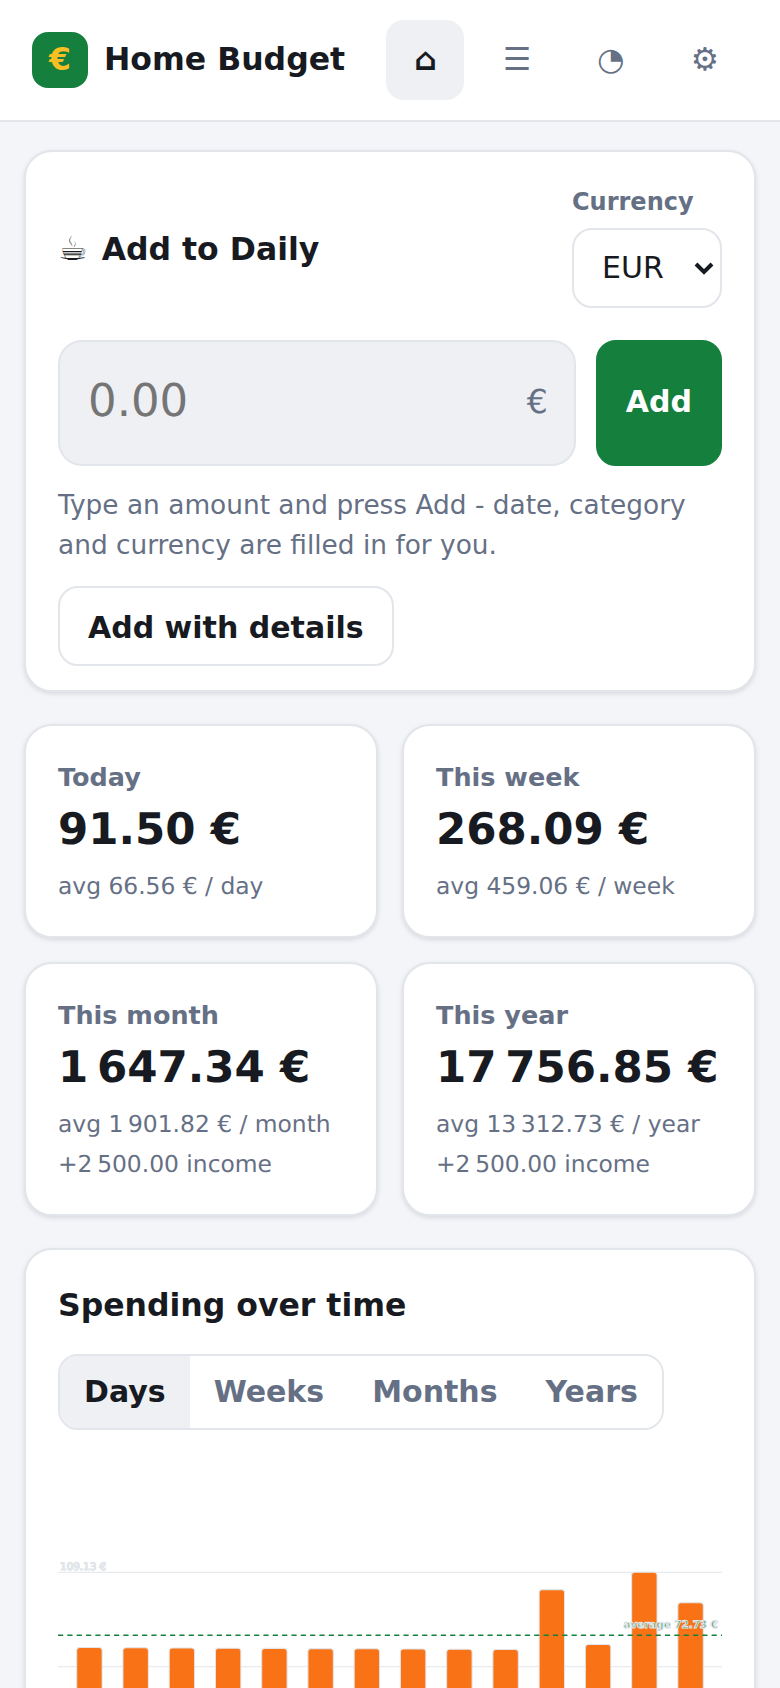
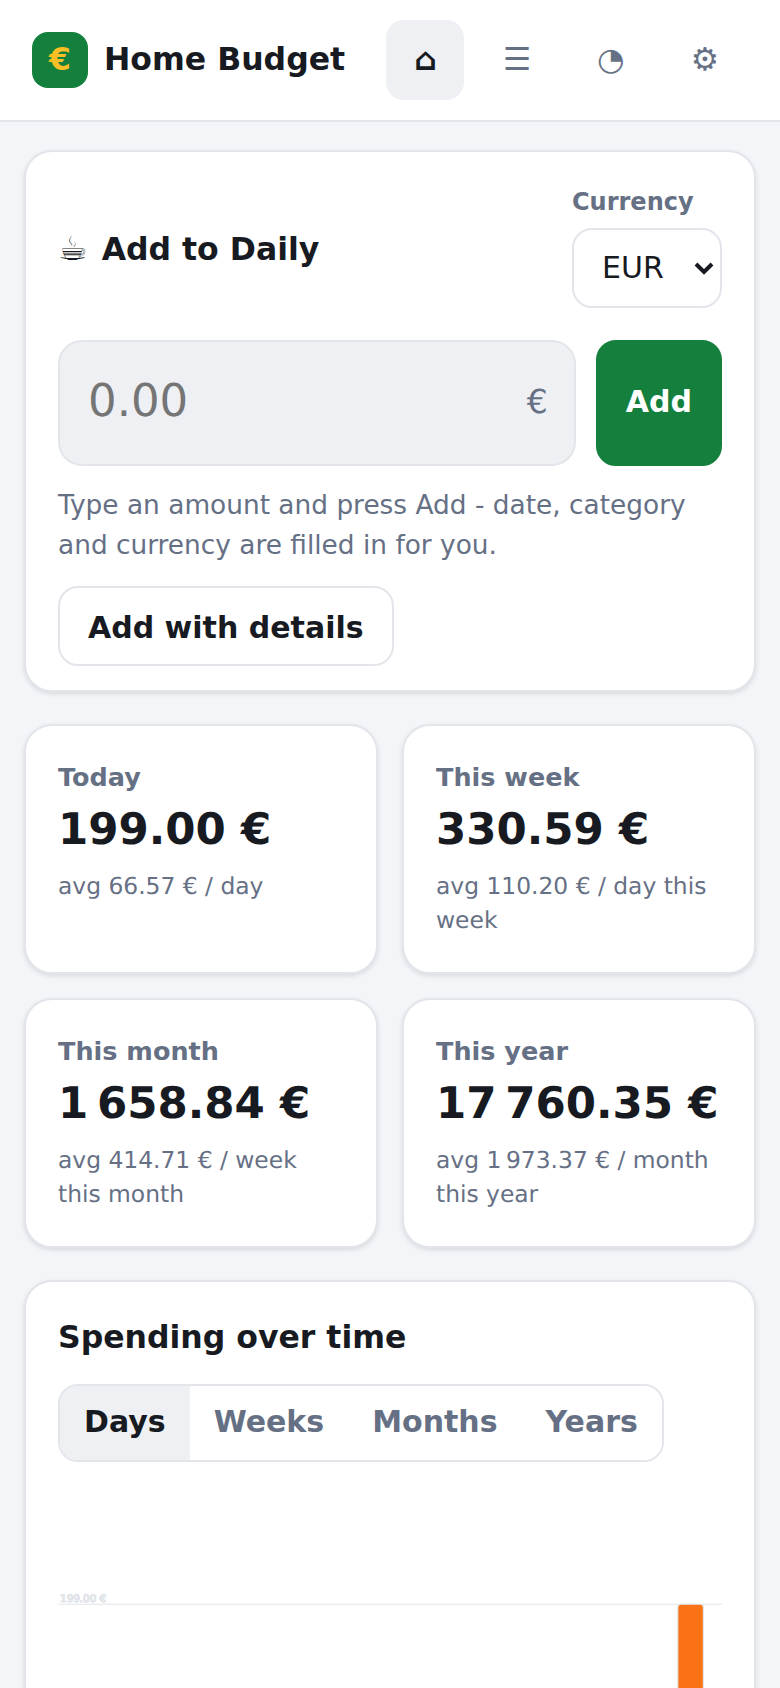
version 3.10.0

diff --git a/src/core/i18n.js b/src/core/i18n.js
@@ -88,11 +88,11 @@ export const EN = {
   'period.thisMonth': 'This month',
   'period.thisYear': 'This year',
   'period.perDay': '/ day',
-  'period.perWeek': '/ week',
-  'period.perMonth': '/ month',
-  'period.perYear': '/ year',
 
   'home.average': 'avg {amount} {per}',
+  'home.rateDay': 'avg {amount} / day this week',
+  'home.rateWeek': 'avg {amount} / week this month',
+  'home.rateMonth': 'avg {amount} / month this year',
   'home.income': '+{amount} income',
   'home.spendingOverTime': 'Spending over time',
   'home.byCategory': 'By category',
@@ -133,7 +133,7 @@ export const EN = {
   'stats.averageColumn': 'Average',
   'stats.total': 'Total',
   'stats.periods': 'Periods',
-  'stats.averagesHint': 'Averages count only the periods that have entries.',
+  'stats.averagesHint': 'This average is per whole period, over the periods that have entries - what a typical week or month of yours costs. The cards on the home screen show something else: the pace inside the period now running.',
   'stats.history': 'History',
   'stats.categories': 'Categories',
   'stats.highlights': 'Highlights',
@@ -325,11 +325,11 @@ export const RU = {
   'period.thisMonth': 'В этом месяце',
   'period.thisYear': 'В этом году',
   'period.perDay': '/ день',
-  'period.perWeek': '/ неделю',
-  'period.perMonth': '/ месяц',
-  'period.perYear': '/ год',
 
   'home.average': 'в среднем {amount} {per}',
+  'home.rateDay': 'в среднем {amount} в день за эту неделю',
+  'home.rateWeek': 'в среднем {amount} в неделю за этот месяц',
+  'home.rateMonth': 'в среднем {amount} в месяц за этот год',
   'home.income': '+{amount} доход',
   'home.spendingOverTime': 'Расходы по времени',
   'home.byCategory': 'По категориям',
@@ -370,7 +370,7 @@ export const RU = {
   'stats.averageColumn': 'Среднее',
   'stats.total': 'Всего',
   'stats.periods': 'Периодов',
-  'stats.averagesHint': 'Среднее считается только по периодам с записями.',
+  'stats.averagesHint': 'Здесь среднее — за целый период, по периодам с записями: во сколько обходится обычная неделя или месяц. На главной карточки показывают другое — темп внутри текущего периода.',
   'stats.history': 'История',
   'stats.categories': 'Категории',
   'stats.highlights': 'Главное',
@@ -562,11 +562,11 @@ export const DE = {
   'period.thisMonth': 'Dieser Monat',
   'period.thisYear': 'Dieses Jahr',
   'period.perDay': '/ Tag',
-  'period.perWeek': '/ Woche',
-  'period.perMonth': '/ Monat',
-  'period.perYear': '/ Jahr',
 
   'home.average': 'Ø {amount} {per}',
+  'home.rateDay': 'Ø {amount} / Tag in dieser Woche',
+  'home.rateWeek': 'Ø {amount} / Woche in diesem Monat',
+  'home.rateMonth': 'Ø {amount} / Monat in diesem Jahr',
   'home.income': '+{amount} Einnahmen',
   'home.spendingOverTime': 'Ausgaben im Zeitverlauf',
   'home.byCategory': 'Nach Kategorie',
@@ -607,7 +607,7 @@ export const DE = {
   'stats.averageColumn': 'Durchschnitt',
   'stats.total': 'Gesamt',
   'stats.periods': 'Perioden',
-  'stats.averagesHint': 'Der Durchschnitt zählt nur Perioden mit Einträgen.',
+  'stats.averagesHint': 'Dieser Durchschnitt gilt für ganze Perioden mit Einträgen - was eine übliche Woche oder ein üblicher Monat kostet. Die Karten auf der Startseite zeigen etwas anderes: das Tempo innerhalb der laufenden Periode.',
   'stats.history': 'Verlauf',
   'stats.categories': 'Kategorien',
   'stats.highlights': 'Auf einen Blick',

diff --git a/test/stats.test.js b/test/stats.test.js
@@ -1,7 +1,8 @@
 import test from 'node:test';
 import assert from 'node:assert/strict';
 import {
-  byCategory, groupByPeriod, highlights, ofCurrency, overview, periodStarts, periodSummary, series, totals,
+  byCategory, elapsedSubPeriods, groupByPeriod, highlights, ofCurrency, overview, periodStarts,
+  periodSummary, series, totals,
 } from '../src/core/stats.js';
 
 const categories = [
@@ -28,6 +29,55 @@ test('entries are grouped by period', () => {
   assert.deepEqual([...groupByPeriod(entries, 'month').keys()], ['2026-09', '2026-08']);
   assert.equal(groupByPeriod(entries, 'day').get('2026-09-22').length, 3);
   assert.deepEqual([...groupByPeriod(entries, 'year').keys()], ['2026']);
+});
+
+test('a period counts the sub-periods that have already passed in it', () => {
+  // 22.09.2026 is a Tuesday: two days into its week, and its month has reached
+  // its fourth calendar week (the one that starts on 31.08 counts, because the
+  // first two days of September fall in it).
+  assert.equal(elapsedSubPeriods('week', '2026-09-22'), 2);
+  assert.equal(elapsedSubPeriods('month', '2026-09-22'), 4);
+  assert.equal(elapsedSubPeriods('year', '2026-09-22'), 9);
+  // A day has nothing finer under it here, so it has no rate of its own.
+  assert.equal(elapsedSubPeriods('day', '2026-09-22'), 0);
+  // The first day of a period is one sub-period in, never zero.
+  assert.equal(elapsedSubPeriods('week', '2026-09-21'), 1);
+  assert.equal(elapsedSubPeriods('month', '2026-09-01'), 1);
+  assert.equal(elapsedSubPeriods('year', '2026-01-01'), 1);
+  assert.equal(elapsedSubPeriods('year', '2026-12-31'), 12);
+});
+
+test('the pace inside a period divides by the sub-periods that passed, not the ones with entries', () => {
+  const week = periodSummary(entries, categories, 'week', '2026-09-22');
+  // Everything in this week was spent on one of its two elapsed days. Counting
+  // only the days that have entries would say 2200 a day; two days passed, so
+  // the honest pace is half of that.
+  assert.equal(week.current.expense, 2200);
+  assert.equal(week.subPeriod, 'day');
+  assert.equal(week.subPeriods, 2);
+  assert.equal(week.rateExpense, 1100);
+
+  const month = periodSummary(entries, categories, 'month', '2026-09-22');
+  assert.equal(month.current.expense, 4200);
+  assert.equal(month.subPeriod, 'week');
+  assert.equal(month.rateExpense, Math.round(4200 / 4));
+  assert.equal(month.rateIncome, Math.round(200000 / 4));
+
+  const year = periodSummary(entries, categories, 'year', '2026-09-22');
+  assert.equal(year.subPeriod, 'month');
+  assert.equal(year.rateExpense, Math.round(7200 / 9));
+
+  // A day has no sub-period, so it reports no rate - the card falls back to the
+  // long-run average there.
+  const day = periodSummary(entries, categories, 'day', '2026-09-22');
+  assert.equal(day.subPeriod, null);
+  assert.equal(day.subPeriods, 0);
+  assert.equal(day.rateExpense, 0);
+
+  // An empty period paces at nothing rather than dividing by zero.
+  const empty = periodSummary([], categories, 'month', '2026-09-22');
+  assert.equal(empty.rateExpense, 0);
+  assert.equal(empty.rateIncome, 0);
 });
 
 test('periodSummary reports the current period and the average', () => {

diff --git a/src/core/stats.js b/src/core/stats.js
@@ -30,9 +30,41 @@ export function groupByPeriod(entries, period) {
   return groups;
 }
 
+/** The period one step finer than each of these; a day has nothing under it. */
+const SUB_PERIOD = { week: 'day', month: 'week', year: 'month' };
+
 /**
- * Figures for the period that contains `today`, plus the average per period
- * over all periods that have data (the current one included).
+ * How many sub-periods the current period has already touched: days into this
+ * week, weeks into this month, months into this year.
+ *
+ * Elapsed, not "with entries". A day on which nothing was spent is still a day
+ * that passed, and counting only the days with entries would turn a quiet week
+ * into a high daily rate - exactly the wrong way round. The month is counted as
+ * the calendar weeks its elapsed days fall in, because a week crosses the first
+ * of the month and both halves still belong to the month a person is looking at.
+ *
+ * @returns {number} 0 for a day, which has no sub-period here
+ */
+export function elapsedSubPeriods(period, today = todayIso()) {
+  const sub = SUB_PERIOD[period];
+  if (!sub) return 0;
+  const seen = new Set();
+  // At most 366 steps, once per card, so the plain walk is worth its clarity.
+  for (let day = periodStart(today, period); day <= today; day = addDays(day, 1)) {
+    seen.add(periodKey(day, sub));
+  }
+  return seen.size;
+}
+
+/**
+ * Figures for the period that contains `today`, in two different senses of
+ * "average", because both answer a real question:
+ *
+ * - `averageExpense` is the average over all periods that have data - what a
+ *   typical week of yours costs. The statistics table shows this one.
+ * - `rateExpense` is the pace inside the period now running - what this month
+ *   has cost per week so far. The cards on the home screen show this one, and
+ *   it is the figure that tells you whether the month is going well.
  */
 export function periodSummary(entries, categories, period, today = todayIso(), texts = undefined) {
   const currentKey = periodKey(today, period);
@@ -46,6 +78,8 @@ export function periodSummary(entries, categories, period, today = todayIso(), t
     incomeSum += groupTotals.income;
   }
   const periodsWithData = groups.size;
+  const subPeriod = SUB_PERIOD[period] || null;
+  const subPeriods = elapsedSubPeriods(period, today);
   return {
     period,
     key: currentKey,
@@ -54,6 +88,10 @@ export function periodSummary(entries, categories, period, today = todayIso(), t
     periodsWithData,
     averageExpense: periodsWithData ? Math.round(expenseSum / periodsWithData) : 0,
     averageIncome: periodsWithData ? Math.round(incomeSum / periodsWithData) : 0,
+    subPeriod,
+    subPeriods,
+    rateExpense: subPeriods ? Math.round(current.expense / subPeriods) : 0,
+    rateIncome: subPeriods ? Math.round(current.income / subPeriods) : 0,
     totalExpense: expenseSum,
     totalIncome: incomeSum,
   };

diff --git a/src/ui/views/home.js b/src/ui/views/home.js
@@ -9,7 +9,12 @@ import { el, field, options } from '../dom.js';
 const PERIOD_TITLES = {
   day: 'period.today', week: 'period.thisWeek', month: 'period.thisMonth', year: 'period.thisYear',
 };
-const PER_LABELS = { day: 'period.perDay', week: 'period.perWeek', month: 'period.perMonth', year: 'period.perYear' };
+// What each card says under its figure. The week, the month and the year show
+// the pace inside the period now running - a week by its days, a month by its
+// weeks, a year by its months - because that is the number that says whether
+// the period is going well. A day has nothing finer to divide by, so that card
+// keeps the long-run average instead: what a day of yours usually costs.
+const RATE_TEXTS = { week: 'home.rateDay', month: 'home.rateWeek', year: 'home.rateMonth' };
 const CHART_LENGTH = { day: 14, week: 12, month: 12, year: 5 };
 
 export function homeView(app) {
@@ -168,10 +173,12 @@ function statCard(app, summary, currency) {
     el('span.stat-title', { text: app.t(PERIOD_TITLES[summary.period]) }),
     el('strong.stat-value', { text: formatMoney(summary.current.expense, currency) }),
     el('span.stat-sub', {
-      text: app.t('home.average', {
-        amount: formatMoney(summary.averageExpense, currency),
-        per: app.t(PER_LABELS[summary.period]),
-      }),
+      text: RATE_TEXTS[summary.period]
+        ? app.t(RATE_TEXTS[summary.period], { amount: formatMoney(summary.rateExpense, currency) })
+        : app.t('home.average', {
+          amount: formatMoney(summary.averageExpense, currency),
+          per: app.t('period.perDay'),
+        }),
     }),
     summary.current.income
       ? el('span.stat-sub.income', {

diff --git a/src/core/version.js b/src/core/version.js
@@ -2,7 +2,7 @@
  * The single place where the application version lives.
  * The build stamps it into the file name, the bundle banner and the page.
  */
-export const APP_VERSION = '3.9.0';
+export const APP_VERSION = '3.10.0';
 
 /**
  * Where the app lives. Both are shown in Settings -> About and written into the

diff --git a/README.md b/README.md
@@ -1,4 +1,4 @@
-# Home Budget 3.9.0 (browser version)
+# Home Budget 3.10.0 (browser version)
 
 <table>
 <tr>
@@ -47,7 +47,11 @@ USB stick, a local folder or an offline laptop and it works. The same file is al
   everywhere - **23.09.2026** - in the list, in the form, in the filters and in the PDF.
 - **Statistics:** sums and averages per **day, week, month and year**, a bar chart of the last
   periods (days / weeks / months / years) with an **average line**, a donut chart and a ranking per
-  category, plus highlights such as the largest single expense. Month and week names follow the
+  category, plus highlights such as the largest single expense. The cards on the home screen show the
+  **pace inside the period now running** - this week per day, this month per week, this year per month -
+  divided by the days, weeks or months that have actually passed, so a quiet Monday is counted as a day
+  and not skipped. The statistics table shows the other average, the one per whole period, which is what
+  says how much a typical week of yours costs. Month and week names follow the
   interface language, on screen and in the exports - "Сентябрь 2026", "September 2026", "39-я неделя".
 - **Export:** CSV, Excel (.xlsx) and PDF of exactly the entries the filters show. The PDF starts with a
   drawn bar chart (vector graphics, average line included) and the spreadsheet gets a second sheet with
@@ -142,7 +146,7 @@ to export a backup and start a fresh file, or to remove old entries.
 
 ## Using it
 
-Open `home-budget-3.9.0.html` (or `home-budget.html`, the same build under a name that never changes)
+Open `home-budget-3.10.0.html` (or `home-budget.html`, the same build under a name that never changes)
 in any modern browser - Chrome, Edge, Firefox, Safari. Nothing to install. Amounts are stored as whole
 cents, so no rounding errors creep in. Data saved by an older version is upgraded automatically on first
 start: entries and categories are kept, and anything new (icons, limit periods, currency rates, currency
@@ -182,7 +186,7 @@ It is live at **https://mm3.github.io/home-budget-web/**, and the same build dow
 
 To publish: enable **Settings → Pages → Source: GitHub Actions** once. `.github/workflows/pages.yml`
 then tests, builds and deploys every push to `main`, and `.github/workflows/release.yml` attaches the
-built files to a release when a tag like `v3.9.0` is pushed.
+built files to a release when a tag like `v3.10.0` is pushed.
 
 ## Building
 
@@ -287,16 +291,18 @@ replaced by a box, and the gap they leave is closed.
 npm run coverage
 ```
 
-120 tests covering the core modules, including round trips (CSV → parse → CSV, XLSX write → read,
+122 tests covering the core modules, including round trips (CSV → parse → CSV, XLSX write → read,
 ZIP write → read), the embedded PDF font (flate stream length, Identity-H structure, the `/ToUnicode`
 map, Cyrillic written as glyphs, the cross reference table), charts, storage upgrades from older data,
-budget calculations per limit period, currency conversion, unique flags and symbols, localized period
+budget calculations per limit period, the two kinds of average (the long-run one per whole period and
+the pace inside the period now running, which divides by the days, weeks or months that have actually
+passed in it), currency conversion, unique flags and symbols, localized period
 labels, deleting entries versus resetting everything, version consistency, translation completeness
 (every language has every key exactly once and with the same placeholders), and the import detection
 for files with and without headers. The run **fails below 90%** line, branch and function coverage of
 `src/core`; it currently sits at about 99% lines, 95% branches.
 
-`tools/browser-check.mjs` additionally drives the built file in headless Chromium (47 checks): it adds
+`tools/browser-check.mjs` additionally drives the built file in headless Chromium (48 checks): it adds
 an entry through the quick form, checks that it is stored and survives a reload, exports CSV/XLSX/PDF
 and verifies the produced bytes (including the chart parts and the embedded font), exports a Russian
 PDF and asserts it contains real Cyrillic and no question marks, imports a semicolon-separated German
